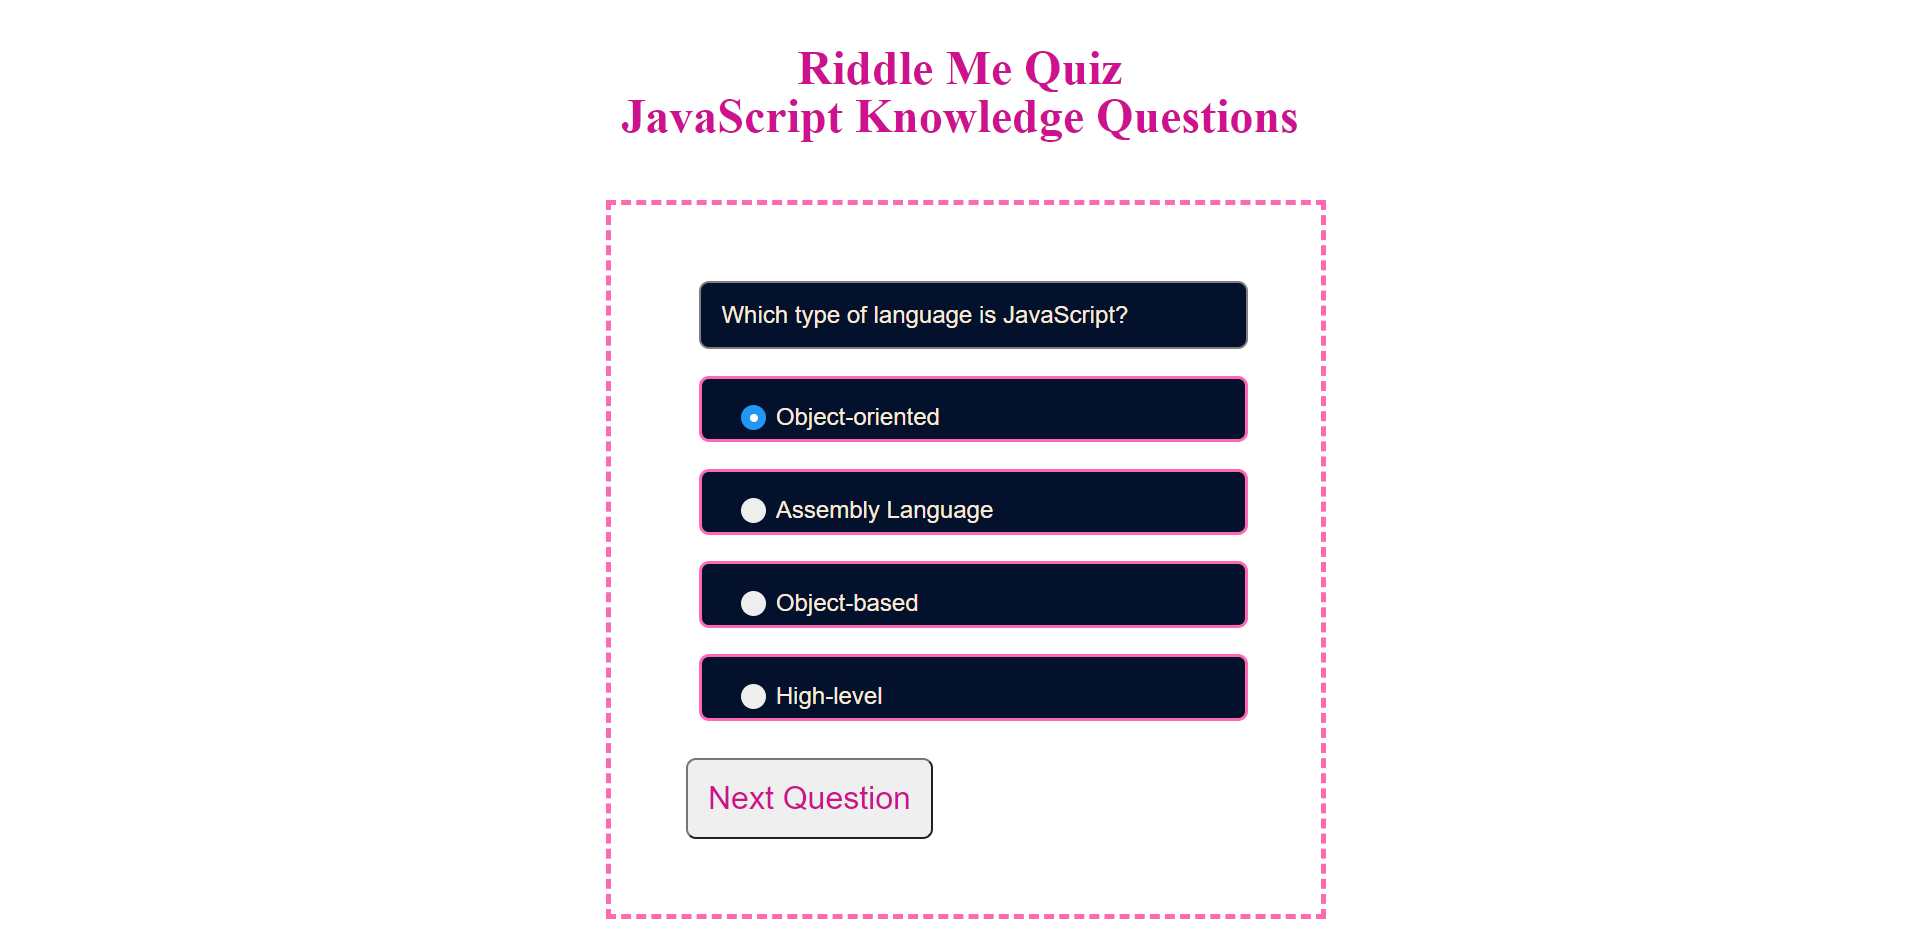
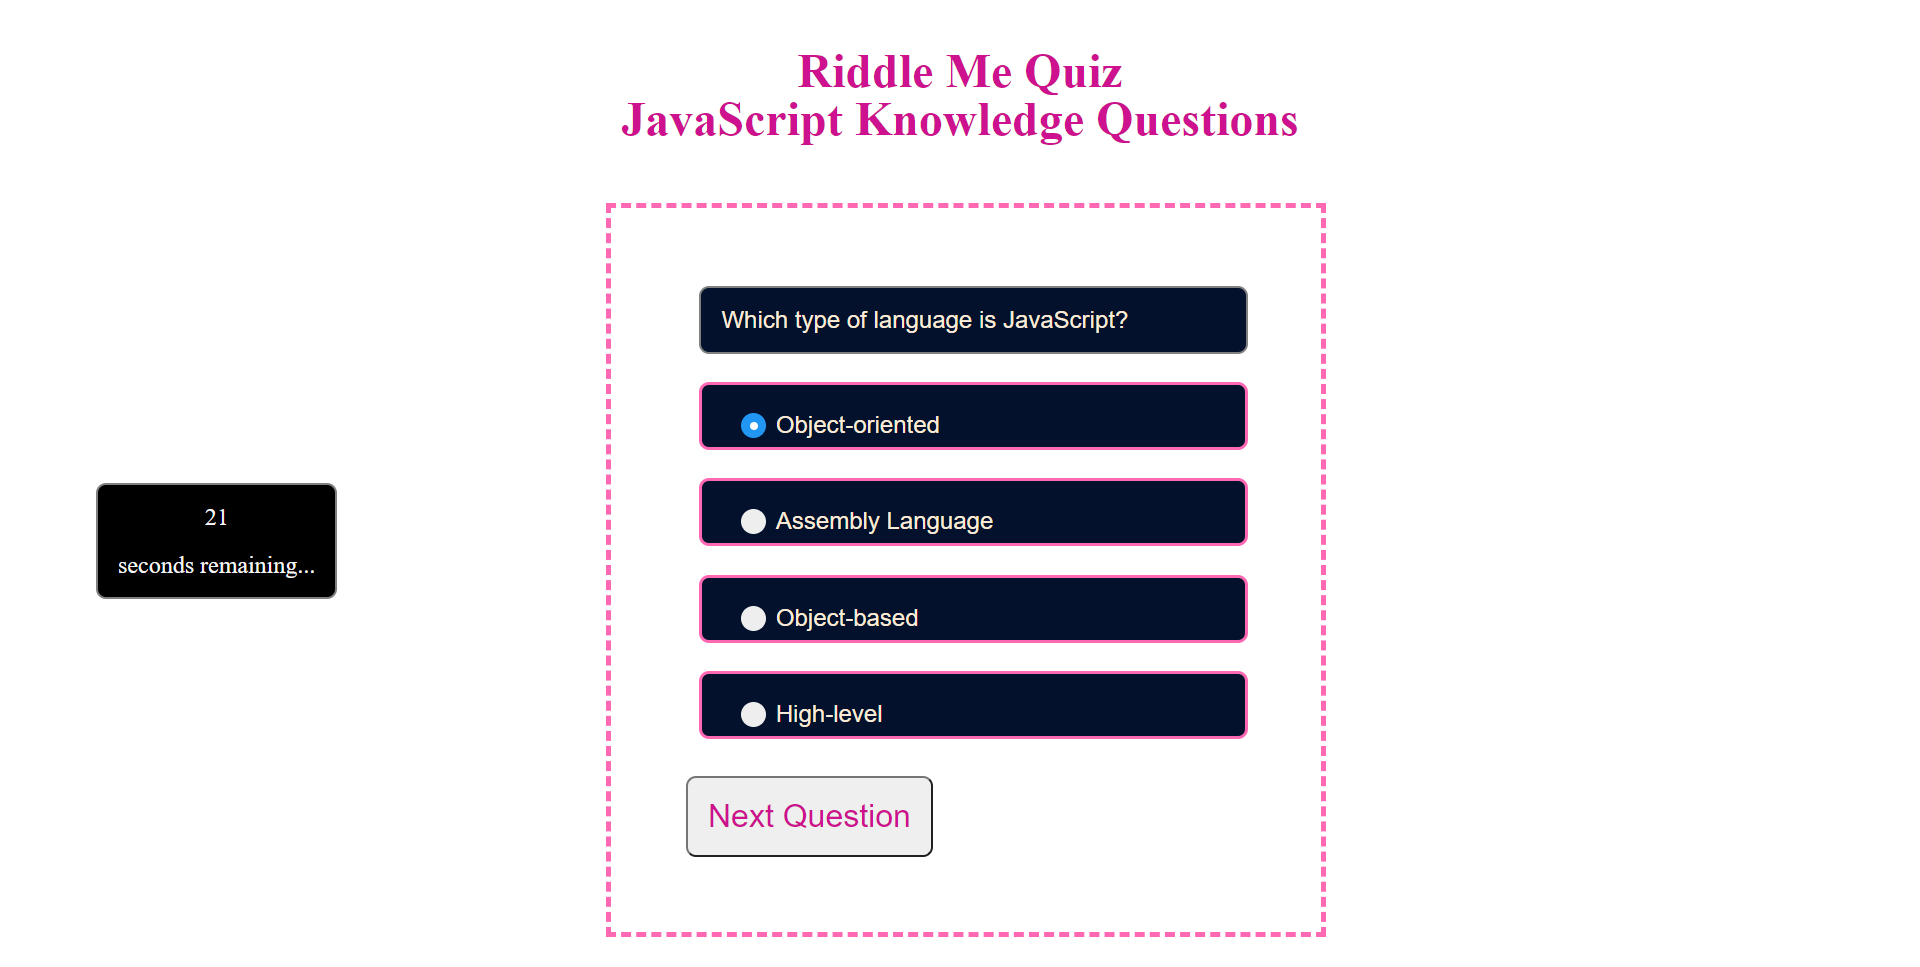
Fifth Commit

diff --git a/assets/scripts/script.js b/assets/scripts/script.js
@@ -32,6 +32,7 @@ let scores=[];
 let currentInitials='';
 let currentScore=0;
 let grade='';
+let remainingTime=12*questionsBank.length;
 
 // get buttons and form
 let startButton=document.getElementById('start-quiz');
@@ -40,6 +41,9 @@ let saveScoreButton=document.getElementById('save-score');
 let resetScoreButton=document.getElementById('reset-score');
 let questionSection=document.getElementById('mcq');
 let scoresTable=document.getElementById('high-scores');
+let startOverButton=document.getElementById('start-over');
+let timerBlock=document.getElementById('timer');
+let timerText=document.getElementById('time');
 //create objects for question and answer texts
 let questionText=document.getElementById('question')
 let textAnswer1=document.getElementById('answer1text');
@@ -76,33 +80,53 @@ function nextQuestion(){
     currentCorrectAnswer=questionsBank[questionIndex].answerIndex;
 }
 
+// Timer function
+function startTimer(){
+
+
+    timerText.textContent=parseInt(remainingTime);
+    let countDown=setInterval(function(){
+        timerText.textContent=parseInt(remainingTime);
+        if (remainingTime<1){
+            clearInterval(countDown);
+            gradeMe();
+            timerBlock.innerHTML='Time\'s Up!';
+            return;
+        }
+        remainingTime--;
+
+    },1000);
+
+
+}
 // Start Quiz function
 
 function startQuiz(){
     //hide this
-    this.style.display="none";
+    startButton.style.display="none";
     // Make the quiz form visible
     questionSection.style.display='block';
     nextQuestion();
+    //Show timer
+    timerBlock.style.display='initial';
     //Start timer
-
-
+    startTimer();
 }
 
 // Get scores function
 
 function getScores(){
 
-    if(localStorage.getItem('riddleMeQuizScores')!=null){
-    scores = JSON.parse(localStorage.getItem('riddleMeQuizScores'))
+
+    if(localStorage.getItem('riddleMeQuizScores')!=null&&localStorage.getItem('riddleMeQuizScores')!=''){
+    scores = JSON.parse(localStorage.getItem('riddleMeQuizScores'));
     }else{
         scores=[];
     }
     //Initialise table
-    scoresTable.innerHTML="<tr><th>High Scores</th></tr><tr><th>Initials</th><th>Score</th><th>Date</th></tr>"
+    scoresTable.innerHTML="<tr><th>Scores</th></tr><tr><th>Initials</th><th>Score</th><th>Date</th></tr>"
 
-    // scores=[['MF','100%','21/12/2020'],['MF','80%','11/11/2020'],['MF','60%','10/10/2020']];
-    if(scores!=[]){
+    if(scores.length){
         for(let item in scores){
             //display scores in the table
             let newTableRow=document.createElement('tr');
@@ -136,31 +160,32 @@ function saveScores(event){
     if(scores.length!=0){
     scores.unshift([currentInitials,grade,today]);
     }else{
-        scores=[currentInitials,grade,today];
+        scores=[[currentInitials,grade,today]];
     }
     localStorage.setItem('riddleMeQuizScores',JSON.stringify(scores));
     getScores();
     scoresTable.style.display='block';
     saveScoreButton.style.display='none';
     resetScoreButton.style.display='block';
+    startOverButton.style.display='block';
 }
 
-// Evaluate Question
+// Evaluate Answer to the question
 
 function gradeQuestion(){
     let currentAnswerIndex=-1;
     let choiceAnswers=document.getElementsByName('choiceanswers');
+    // check which answer was selected
     for (let i=0; i<4; i++){
-        // alert(choiceAnswers[i].checked);
         if (choiceAnswers[i].checked){
             currentAnswerIndex=i;
-            // alert (currentAnswerIndex+' is your answer');
         }
     }
     if (currentAnswerIndex==currentCorrectAnswer) {
         score++;
-    } else {
+    } else{
         // reduceTime();
+        remainingTime -=4;
     }
 
 }
@@ -169,6 +194,9 @@ function gradeQuestion(){
 // Evaluate Total Score
 function gradeMe(){
 
+    //stop timer
+    remainingTime=0;
+    //calculate grade
     grade=score/questionsBank.length;
     grade=(grade*100)+'%'
     document.getElementById('score').textContent='Your grade is ' + grade;
@@ -178,7 +206,7 @@ function gradeMe(){
     /*hide other quiz elements*/
     for (let element in document.getElementById('mcq').children){
         if (!(document.getElementById('mcq').children[element].id=='save-score'||document.getElementById('mcq').children[element].id=='score')){
-            document.getElementById('mcq').children[element].style.display='none';
+            document.getElementById('mcq').children.item(element).style.display='none';
 
         }
     }
@@ -219,4 +247,10 @@ resetScoreButton.addEventListener('click',function(event){
     scores=[];
     localStorage.setItem('riddleMeQuizScores',[]);
     getScores();
+});
+
+//Start Over
+
+startOverButton.addEventListener('click',function(event){
+    location.reload();
 });

diff --git a/index.html b/index.html
@@ -20,31 +20,33 @@
     <section id='quiz-app'>
         <button id='start-quiz'>Start Quiz</button>
             <form id='mcq'>
-                        <p id='question'>Question</p>
-                        <label class='choice-container' id='answer1'><p id='answer1text'>Answer 1</p>
+                        <!-- question text -->
+                        <p id='question'></p>
+                        <!-- answer texts -->
+                        <label class='choice-container' id='answer1'><p id='answer1text'></p>
                             <input class='choice' type="radio" id="choice1" name='choiceanswers' checked=true value="0">
                             <span class="checkmark"></span>
                         </label>
-                        <label class='choice-container' id='answer2'><p id='answer2text'>Answer 2</p>
+                        <label class='choice-container' id='answer2'><p id='answer2text'></p>
                         <input class='choice' type="radio" id="choice2" name='choiceanswers' value="1">
                         <span class="checkmark"></span>
                         </label>
-                        <label class='choice-container' id='answer3'><p id='answer3text'>Answer 3</p>
+                        <label class='choice-container' id='answer3'><p id='answer3text'></p>
                         <input class='choice' type="radio" id="choice3" name='choiceanswers' value="2">
                         <span class="checkmark"></span>
                         </label>
-                        <label class='choice-container' id='answer4'><p id='answer4text'>Answer 4</p>
+                        <label class='choice-container' id='answer4'><p id='answer4text'></p>
                         <input class='choice' type="radio" id="choice4" name='choiceanswers' value="3">
                         <span class="checkmark"></span>
                         </label>
+                        <!-- next question -->
                         <button id='next-question'>Next Question</button>
                         <p id='score'></p>
-                        <p id='timer'></p>
                         <button id='save-score' style='display:none'>Save Score</button>
                         <table id='high-scores'>
                             <tr>
                                 <th>
-                                    High Scores
+                                    Scores
                                 </th>
                             </tr>
                             <tr>
@@ -53,11 +55,14 @@
                               <th>Date</th>
                             </tr>
                           </table>
-                        <button id='reset-score' style='display:none'>Reset Score</button>
-
+                        <button id='reset-score' style='display:none'>Reset Scores</button>
             </form>
+            <button id='start-over' style='display:none'>Start Over</button>
     </section>
-    
+    <section id='timer'>
+        <p id='time'></p>
+        <br>seconds remaining...
+    </section>
     <script src="./assets/scripts/script.js"></script> 
 </body>
 </html>

diff --git a/assets/styles/style.css b/assets/styles/style.css
@@ -78,7 +78,6 @@ form * {
 
 /*hide score, high scores and timer button */
 #score,
-#timer,
 #high-scores {
   display: none;
 }
@@ -169,4 +168,19 @@ button:hover {
   height: 8px;
   border-radius: 50%;
   background: white;
+}
+
+/*Styling the timer*/
+#timer {
+  font-family: "Times New Roman", Times, serif, Geneva, Verdana, sans-serif;
+  font-size: 150%;
+  position: fixed;
+  display: none;
+  top: 50%;
+  left: 5%;
+  background-color: black;
+  color: whitesmoke;
+  width: fit-content;
+  height: fit-content;
+  text-align: center;
 }

diff --git a/README.md b/README.md
@@ -6,7 +6,7 @@ This is a mini-quiz that tests the taker's knowledge on the theoritical aspects 
 
 ### Usage
 
-You will be able to start the quiz by simply clicking the 'Start Quiz' button on the main page. Once you finish answering the question, click submit. The questions are timed so be sure you answer in time.
+You will be able to start the quiz by simply clicking the 'Start Quiz' button on the main page. The timer starts, Once you finish answering the question, click 'Next Question'. When you finish all the questions, click 'Submit'. The questions are timed so be sure you answer in time. If you run out of time the page will calculate your score based on the answers you submitted. You can save and view your scores once you finish the quiz to gauge your progress. You may also reset the scores.
 
 ## Link to the Deployed Application
 
@@ -34,22 +34,31 @@ You will be able to start the quiz by simply clicking the 'Start Quiz' button on
 
 ### Second Commit
 
-• Basic wireframe of the application in HTML.
-• Basic Styling of the application in CSS.
-• Updating README.md
+• Basic wireframe of the application in HTML.  
+• Basic Styling of the application in CSS.  
+• Updating README.md  
 • Adding the question bank in the script.js file.
 
 ### Third Commit
 
-• Added basic functionality to the JavaScript file. (Next Question, show and hide buttons, import questions from question bank)
-• Linked the radio buttons together.
-• Enhanced the display of some of the elements.
+• Added basic functionality to the JavaScript file. (Next Question, show and hide buttons, import questions from question bank)  
+• Linked the radio buttons together.  
+• Enhanced the display of some of the elements.  
 • Added comments to the css file.
 
 ### Fourth Commit
 
-• Added grading functionality to the code.
-• Added saving scores functionality to the code.
-• Added retrieving scores functionality to the code.
-• Added reset score functionality to the code.
+• Added grading functionality to the code.  
+• Added saving scores functionality to the code.  
+• Added retrieving scores functionality to the code.  
+• Added reset score functionality to the code.  
 • Added screenshot of the assets.
+
+### Fifth Commit
+
+• Fixed Grading Functionality  
+• Added restart button Functionality  
+• Fixed reset score Functionality  
+• Added timer front end  
+• Added timer back-end functionality  
+• Updated Screenshot
